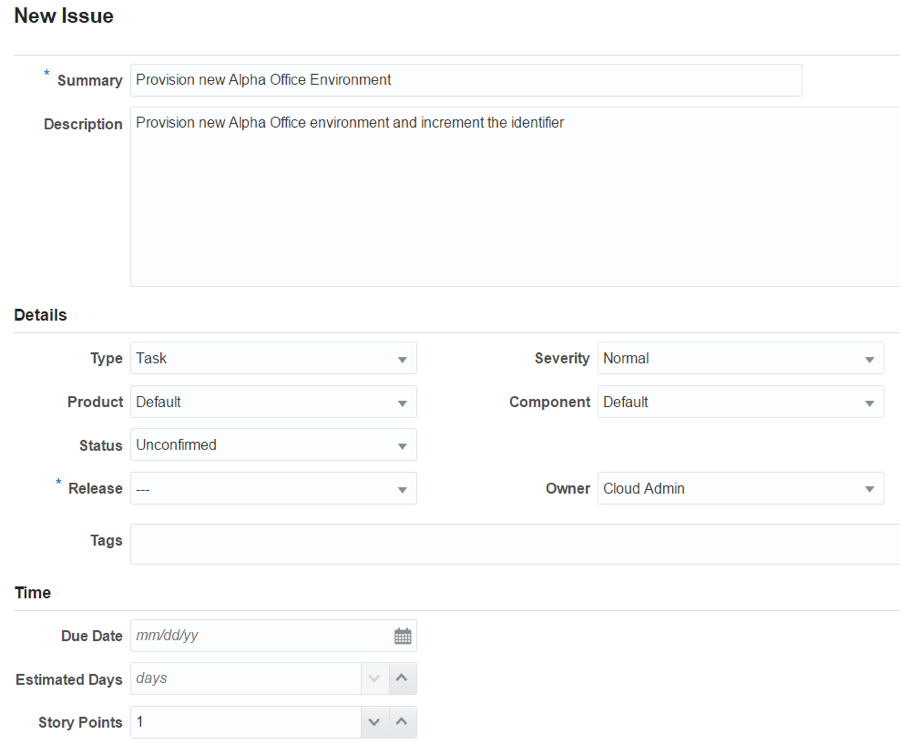
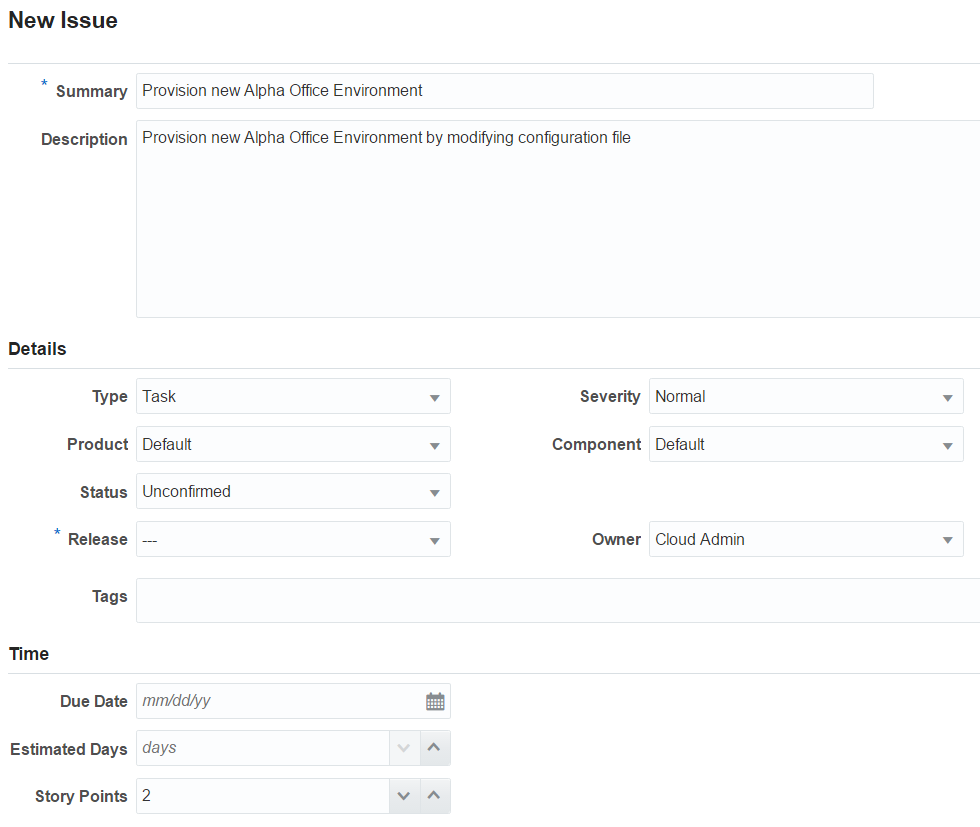
Updates to JCS Pipeline Stack Manager workshop lab 100

diff --git a/JCSPiplelineStackManager/JCSPipelineStackManager100.md b/JCSPiplelineStackManager/JCSPipelineStackManager100.md
@@ -145,7 +145,7 @@ Oracle Developer Cloud Service provides a complete development platform that str
 
     ![](images/100/Picture100-9.png)
 
-###**STEP 7:** Create Developer Cloud Service Project
+### **STEP 7:** Create Developer Cloud Service Project
 
 - Click **New Project** to start the project create wizard.
 - On Details screen enter the following data and click on **Next**.
@@ -190,9 +190,9 @@ In this step you are still connected in the logical role of the Project Manager,
 
     **Note:** no matter who you assign as the task “physical” owner, for the sake of this workshop, Bala Gupta will be the “logical” owner.
 
-    **Summary:** `Create Initial GIT Repository for Infrustructure and configure Build`
+    **Summary:** `Create Initial GIT Repository for Infrastructure and configure Build`
 
-    **Description:** `Create Initial GIT Repository for Infrustructure and configure Build`
+    **Description:** `Create Initial GIT Repository for Infrastructure and configure Build`
 
     **Type:** `Task`
 
@@ -215,7 +215,7 @@ https://agilefaq.wordpress.com/2007/11/13/what-is-a-story-point/
 
     **Summary:** `Provision new Alpha Office Environment`
 
-    **Description:** `Provision new Alpha Office environment and increment the identifier`
+    **Description:** `Provision new Alpha Office Environment by modifying configuration file`
 
     **Type:** `Task`
 
@@ -308,38 +308,15 @@ Each Sprint lists issues that are added to it. The Backlog section (the last sec
 
 ### **STEP 14:** Add Backlog Issues to Sprint
 
-- Next we want to add the backlog issues to the newly created spring. **Drag and drop* the **4 issues** one at a time upward onto the **Sprint 1** section. This will add the issues to the sprint.
+- Next we want to add the backlog issues to the newly created spring. **Drag and drop** the **4 issues** one at a time upward onto the **Sprint 1** section. This will add the issues to the sprint.
 
     ![](images/100/Picture100-24.png)
 
     ![](images/100/Picture100-25.png)
 
-## Customize Agile Board
+### **STEP 15:** View Active Sprint and Reports
 
-### **STEP 15:** Customize Board
-
-In the following step you will customize an Agile Board, and add a new Progress State. If you desire more information about States and Conditions, the following link will provide a tutorial:
-http://www.oracle.com/webfolder/technetwork/tutorials/obe/cloud/developer/AgileDevelopment/AgileDevelopment.html
-
-- Now we will show you how you can customize your board. In the right hand side click **Board -> Configure**
-
-    ![](images/100/Picture100-26.png)
-
-    **Note:** Before we create a new progress state, we want to un-assign some of the conditions that will be used in the new state. You can’t add new conditions or removed conditions, however, you can redefine progress states to suit your project’s needs and move conditions from one state to another. A large number of conditions are assigned to the Completed state by default.
-
-- Click on **Progress States**, then click **Completed** state. In the lower left panel of the window, scroll down the conditions and select all the **RESOLVED** conditions. Click the **>** icon to move them over to the Unassigned Conditions panel.
-
-    ![](images/100/Picture100-27.png)
-
-- Hightlight all the **RESOLVED** unassigned conditions, and clikc **<** to move them over to the Conditions column.
-
-    ![](images/100/Picture100-28.png)
-
-- With the **Verify Code** highlighed, click on the ![icon](images/100/PictureUpArrow.png) to move **Verify Code** above the **Completed** Process State.
-
-    ![](images/100/Picture100-29.png)
-
-- Click **Save Sprint**. Leave defaults and click **Start**
+- Click **Start Sprint.** Leave defaults and click **Start**
 
     ![](images/100/Picture100-30.png)
 
